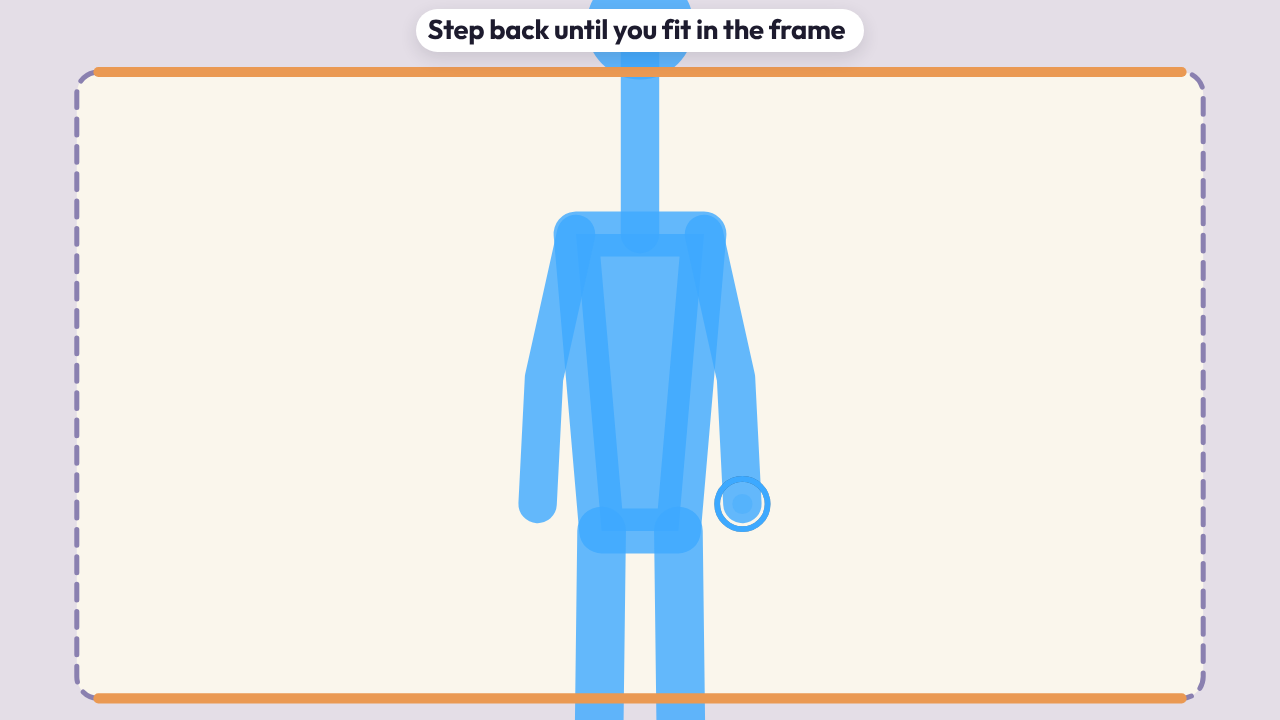
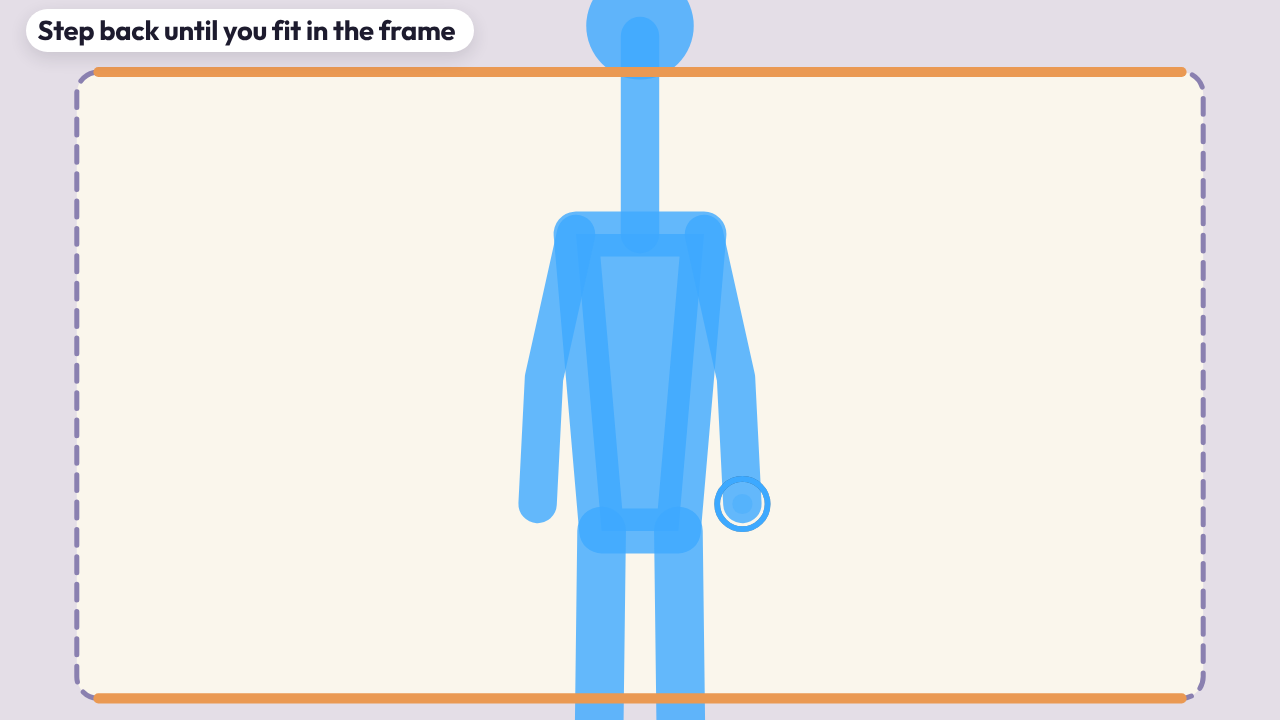
Tidy pass 2: framing hint clear of figures, sidebar game count matches Games page, story end card clear of animals, load-proof timing tests

Changed region(s): [[0.0, 0.0, 0.6875, 0.0917]]

diff --git a/app/src/games/story-player.js b/app/src/games/story-player.js
@@ -19,11 +19,14 @@ import { PLAYER_COLORS } from '../tracking/pose.js';
 import { MEADOW, AHEAD, PLACES } from '../stories/cubions-long-way-home.js';
 
 const FONT = '"Segoe UI Variable Display","Segoe UI",-apple-system,Inter,system-ui,sans-serif';
-const GROUND = 500, UNIT = 720;                 /* the world is drawn 720 high, scaled to the screen */
-const CUBO_AT = 0.48;                            /* where Cubo stands across the screen */
+export const GROUND = 500, UNIT = 720;                 /* the world is drawn 720 high, scaled to the screen */
+export const CUBO_AT = 0.48;                            /* where Cubo stands across the screen */
 /* at the very end the "The end" card goes over the left half of the screen (about to 0.47 of the width): Cubo steps across to the right of it,
    and the animals standing round him with him (the world stays put, so the house is still all in view) */
 const END_STEP = 0.1;
+/* ...and the card is up on the left, from the top of the sky down to about 0.30 of the height, so at the end two of the animals make room for it: the giraffe
+   (the tallest) shrinks so that its head and ears stand clear under the card, and the bird, which flies at the card's height, moves right of its edge */
+export const END_ADJUST = { giraffe: { shrink: 0.15 }, bird: { dx: 80 } };
 const byte = (v) => Math.max(0, Math.min(255, v | 0)).toString(16).padStart(2, '0');
 const css = (a) => '#' + byte(a[0]) + byte(a[1]) + byte(a[2]);
 const mix = (a, b, t) => a.map((v, i) => v + (b[i] - v) * t);
@@ -35,7 +38,7 @@ const GRND = { planet: pal('night.farHills'), day: pal('meadow.fresh'), dusk: pa
 /* the meadow hills, far then near: by day, and at dusk */
 const HILL_DAY = [pal('meadow.grass'), pal('meadow.leaf')], HILL_DUSK = [pal('meadow.leaf', 'shade'), pal('meadow.deep', 'shade')];
 /* the Animal Gym animals, and where each stands (in front of Cubo at his stop) */
-const ANIMALS = [
+export const ANIMALS = [
   { id: 'giraffe', e: 'giraffe', at: PLACES.giraffe + AHEAD, size: 230, y: 14, off: -600 },
   { id: 'bunny', e: 'bunny', at: PLACES.bunny + AHEAD, size: 120, y: 14, off: -430 },
   { id: 'bird', e: 'bird', at: PLACES.bird + AHEAD, size: 100, y: -250, off: -120 },
@@ -223,11 +226,12 @@ class Story {
     const b = this.beat, ease = this.gather * this.gather * (3 - 2 * this.gather);
     const step = this.endStep(vw) * ease;                                      /* (and they go with him when he steps aside at the end) */
     ANIMALS.forEach((a, i) => {
-      const x = a.at + (this.pos + a.off - a.at) * ease + step;               /* gathered, they stand around Cubo */
+      const adj = END_ADJUST[a.id] || {}, ek = this.endShift * this.endShift * (3 - 2 * this.endShift);   /* (at the end: room for the card) */
+      const x = a.at + (this.pos + a.off - a.at) * ease + step + (adj.dx || 0) * ek;               /* gathered, they stand around Cubo */
       const sx = x - cam; if (sx < -200 || sx > vw + 200) return;
       const bob = a.id === 'bird' ? Math.sin(this.t * 3 + i) * 10 : 0;
       const w = this.wob * (0.22 * Math.sin(this.t * 5 + i * 1.7)), hop = this.wob * Math.abs(Math.sin(this.t * 4 + i)) * 24;
-      this.emoji(c, a.e, sx, GROUND + a.y - bob - hop, a.size, w, a.id !== 'frog' && a.id !== 'bunny' ? false : false);
+      this.emoji(c, a.e, sx, GROUND + a.y - bob - hop, a.size * (1 - (adj.shrink || 0) * ek), w, a.id !== 'frog' && a.id !== 'bunny' ? false : false);
     });
   }
   /* how far (in world units) Cubo has stepped to the right at the end, to clear the card */

diff --git a/app/src/ui/framing-check.js b/app/src/ui/framing-check.js
@@ -15,7 +15,7 @@ import { silhouette } from './avatars.js';
 import { crew } from './crew.js';
 import { launch } from './launch.js';
 import { color } from '../games/assets/palette.js';
-import { FRAME, FramingWatch, framingShown, markFramingShown } from './framing.js';
+import { FRAME, FramingWatch, framingShown, markFramingShown, bodyBox, placeCard } from './framing.js';
 
 export const SETTLE = 0.5, SETTLE_EMPTY = 1.2, GOOD_HOLD = 0.8, HELLO = 2, PLAY_ANYWAY_AFTER = 10, FRAMED_FOR = 0.5;
 
@@ -35,7 +35,7 @@ export function framingCheck({ onDone, players = pose.cap }){
   const first = !framingShown();
   const watch = new FramingWatch();
   let phase = 'measure', t = 0, phaseT = 0, framedT = 0, finished = false;
-  let s = null, say = null, who = null, go = null, rep = { nobody: true, present: 0, ok: true, bad: [] };
+  let s = null, card = null, say = null, who = null, go = null, rep = { nobody: true, present: 0, ok: true, bad: [] };
   const seats = () => pose.players.slice(0, players);
 
   function finish(){
@@ -46,7 +46,7 @@ export function framingCheck({ onDone, players = pose.cap }){
   function build(){
     launch.release();                                    /* (the cover goes: there is something to show) */
     s = screen('framing');
-    const card = h('div', 'frmcard');
+    card = h('div', 'frmcard');
     const mark = h('span', 'frmtick'); mark.innerHTML = TICK;
     say = h('div', 'frmsay');
     who = h('div', 'frmwho');
@@ -75,6 +75,18 @@ export function framingCheck({ onDone, players = pose.cap }){
     who.textContent = b && rep.present > 1 ? (crew.nameOf(b.i) || `Player ${b.i + 1}`) : '';
   }
 
+  /* the words card sits where it covers no figure: the top centre when that is clear, else the bottom, a corner or a side */
+  function placeWords(W, H){
+    if (!card) return;
+    const boxes = seats().filter(p => p.present && p.lm).map(p => bodyBox(p.lm, W, H));
+    if (phase === 'hint' && rep.nobody) boxes.push(bodyBox(GHOST, W, H));
+    const keep = [];
+    if (go && !go.classList.contains('hide')){ const g = go.getBoundingClientRect(); keep.push({ x0: g.left, y0: g.top, x1: g.right, y1: g.bottom }); }
+    const w = card.offsetWidth, hh = card.offsetHeight;
+    const { x, y } = placeCard(W, H, w, hh, boxes, keep);
+    card.style.left = x + 'px'; card.style.top = y + 'px';
+  }
+
   return {
     tick(dt){
       if (finished) return;
@@ -98,6 +110,7 @@ export function framingCheck({ onDone, players = pose.cap }){
     },
     draw(c, W, H){
       if (phase === 'measure') return;
+      placeWords(W, H);
       c.fillStyle = color('shade.paper'); c.fillRect(0, 0, W, H);
       const x0 = FRAME.side * W, x1 = (1 - FRAME.side) * W, y0 = FRAME.top * H, y1 = FRAME.feet * H, r = H * 0.03;
       const ok = phase !== 'hint';

diff --git a/app/src/ui/framing.js b/app/src/ui/framing.js
@@ -87,3 +87,33 @@ export class FramingWatch {
 const KEY = 'orlis_framing_shown';
 export function framingShown(){ try { return localStorage.getItem(KEY) === '1'; } catch { return false; } }
 export function markFramingShown(){ try { localStorage.setItem(KEY, '1'); } catch { /* shown again next time */ } }
+
+/* ---------- where the words card goes ---------- */
+
+/* The rectangle a body fills on a W x H screen (pixels), with room for the head and the limbs' thickness, so a card kept off it never
+   touches the figure. lm: the body's landmarks (screen fractions). Returns { x0, y0, x1, y1 } or null when it cannot be worked out. */
+export function bodyBox(lm, W, H){
+  const idx = [L.NOSE, L.L_SHOULDER, L.R_SHOULDER, L.L_ELBOW, L.R_ELBOW, L.L_WRIST, L.R_WRIST, L.L_HIP, L.R_HIP, L.L_KNEE, L.R_KNEE, L.L_ANKLE, L.R_ANKLE];
+  const pts = idx.map(i => lm[i]).filter(k => k && (k.v ?? 1) > 0.3);
+  if (!pts.length || !lm[L.L_SHOULDER] || !lm[L.R_SHOULDER]) return null;
+  const sw = Math.hypot((lm[L.L_SHOULDER].x - lm[L.R_SHOULDER].x) * W, (lm[L.L_SHOULDER].y - lm[L.R_SHOULDER].y) * H), pad = sw * 0.5;
+  const xs = pts.map(k => k.x * W), ys = pts.map(k => k.y * H);
+  return { x0: Math.min(...xs) - pad, y0: Math.min(...ys) - pad * 1.6, x1: Math.max(...xs) + pad, y1: Math.max(...ys) + pad };
+}
+
+/* Where the words card goes: a w x h card on a W x H screen that overlaps no figure. It prefers the top centre (where it has always been), then
+   the bottom centre, then the corners and the middle of each side, and takes the first that is clear; if none is clear it takes the one
+   covering the least. `boxes`: the figures' rectangles (bodyBox). `keep`: other rectangles to stay off (the "Play anyway" button, when it is up).
+   Returns { x, y } for the card's top left corner. */
+export function placeCard(W, H, w, h, boxes, keep = []){
+  const m = Math.round(H * 0.012), side = Math.round(W * 0.02), xc = (W - w) / 2, yc = (H - h) / 2, lo = H - h - m * 2.5;
+  const spots = [[xc, m], [xc, lo], [side, m], [W - w - side, m], [side, lo], [W - w - side, lo], [side, yc], [W - w - side, yc]];
+  const hit = (x, y, b) => Math.max(0, Math.min(x + w, b.x1) - Math.max(x, b.x0)) * Math.max(0, Math.min(y + h, b.y1) - Math.max(y, b.y0));
+  let best = null;
+  for (const [x, y] of spots){
+    const cost = [...boxes, ...keep].reduce((s, b) => s + (b ? hit(x, y, b) : 0), 0);
+    if (!best || cost < best.cost) best = { x, y, cost };
+    if (cost === 0) break;
+  }
+  return { x: Math.round(best.x), y: Math.round(best.y) };
+}

diff --git a/app/src/style.css b/app/src/style.css
@@ -773,7 +773,8 @@ canvas.avface{ display:block; border-radius:22%; }
 .lunm{ font-size:2.4vh; font-weight:700; }
 /* the camera check in "get ready" (ui/framing-check.js): the frame and the figures are on the canvas; the words are a card at the top */
 .screen.framing{ justify-content:flex-start; padding:0; pointer-events:none; }
-.frmcard{ position:absolute; top:1.2vh; left:50%; transform:translateX(-50%); display:flex; align-items:center; gap:1.6vh; padding:.8vh 2.6vh .8vh 1.6vh; border-radius:3vh;
+.frmcard{ position:absolute; top:1.2vh; left:0;   /* (framing-check.js sets left and top so the card stays clear of the figures) */
+  display:flex; align-items:center; gap:1.6vh; padding:.8vh 2.6vh .8vh 1.6vh; border-radius:3vh;
   background:var(--surface); box-shadow:0 .8vh 2.4vh rgba(40,40,60,.14); color:var(--ink); max-width:92vw; }
 .frmtick{ display:none; width:4.6vh; height:4.6vh; border-radius:50%; background:var(--good); color:#fff; padding:.9vh; box-sizing:border-box; flex:none; }
 .frmtick svg{ width:100%; height:100%; display:block; }

diff --git a/server/src/admin.js b/server/src/admin.js
@@ -298,7 +298,7 @@ export function admin({ db, info, dataDir, shop, week, log, mail, mailState = { 
     return {
       now: now().toISOString(), health: health(),
       stats: { families: { total: n.families, newThisWeek: n.newWeek }, active7: { households: n.active7, pct: n.families ? Math.round(n.active7 / n.families * 100) : 0 },
-        plays: { today: n.playsToday, lastWeekSameTime: n.playsThen }, queue: qu.counts, games: (await shop.games()).length },
+        plays: { today: n.playsToday, lastWeekSameTime: n.playsThen }, queue: qu.counts, games: (await gameRows()).length },   /* (the Games page's own set: the Store, the built-in games and those in review) */
       series: { days: n.newSeries.days, newFamilies: n.newSeries.values, plays: n.playSeries.values },
       queue: { counts: qu.counts, items: qu.items.slice(0, 4) },
       activity: activityRows(new URLSearchParams({ limit: '8' })).rows,
